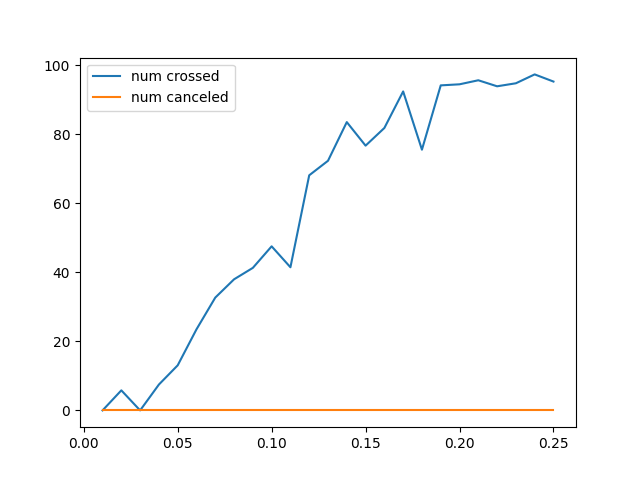
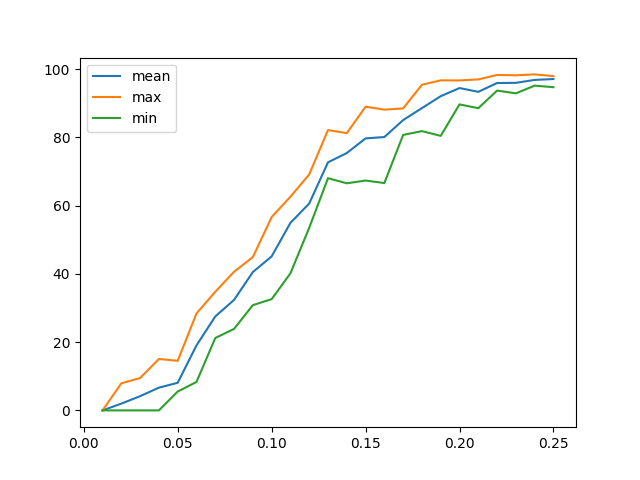
curves max mean min for different lambda

diff --git a/main.py b/main.py
@@ -243,20 +243,48 @@ if(not args.new_scenario):
                         tab_mean_loss = pickle.load(infile)
 
 
-            tab_perc_cycl[0].append(structure.num_cyclists_crossed/num_cyclists*100)
-            tab_perc_cycl[1].append(structure.num_cyclists_canceled/num_cyclists*100)
-            tab_time_diff.append(mean_diff_finish_step)
-            tab_x_values.append(args.poisson_lambda)
+            if(len(tab_x_values) == 0 or tab_x_values[-1] != args.poisson_lambda):
+                tab_perc_cycl[0].append([structure.num_cyclists_crossed/num_cyclists*100])
+                tab_perc_cycl[1].append([structure.num_cyclists_canceled/num_cyclists*100])
+                tab_time_diff.append([mean_diff_finish_step])
+                tab_x_values.append(args.poisson_lambda)
+            else:
+                tab_perc_cycl[0][-1].append(structure.num_cyclists_crossed/num_cyclists*100)
+                tab_perc_cycl[1][-1].append(structure.num_cyclists_canceled/num_cyclists*100)
+                tab_time_diff[-1].append(mean_diff_finish_step)
+
 
             print(tab_perc_cycl[0], tab_perc_cycl[1], tab_time_diff)
 
+            tab_mean_perc_cycl = []
+            tab_max_perc_cycl = []
+            tab_min_perc_cycl = []
+
+            tab_mean_time_diff = []
+            tab_max_time_diff = []
+            tab_min_time_diff = []
+
+            for i in range(len(tab_x_values)):
+                tab_mean_perc_cycl.append(sum(tab_perc_cycl[0][i])/len(tab_perc_cycl[0][i]))
+                tab_max_perc_cycl.append(max(tab_perc_cycl[0][i]))
+                tab_min_perc_cycl.append(min(tab_perc_cycl[0][i]))
+
+                tab_mean_time_diff.append(sum(tab_time_diff[i])/len(tab_time_diff[i]))
+                tab_max_time_diff.append(max(tab_time_diff[i]))
+                tab_min_time_diff.append(min(tab_time_diff[i]))
+
+
             plt.clf()
-            plt.plot(tab_x_values, tab_time_diff)
+            plt.plot(tab_x_values, tab_mean_time_diff, label="mean")
+            plt.plot(tab_x_values, tab_max_time_diff, label="max")
+            plt.plot(tab_x_values, tab_min_time_diff, label="min")
+            plt.legend()
             plt.savefig("images/"+sub_folders+"evolution_time_diff.png")
 
             plt.clf()
-            plt.plot(tab_x_values, tab_perc_cycl[0], label="num crossed")
-            plt.plot(tab_x_values, tab_perc_cycl[1], label="num canceled")
+            plt.plot(tab_x_values, tab_mean_perc_cycl, label="mean")
+            plt.plot(tab_x_values, tab_max_perc_cycl, label="max")
+            plt.plot(tab_x_values, tab_min_perc_cycl, label="min")
             plt.legend()
             plt.savefig("images/"+sub_folders+"evolution_percentage_cycl_using_struct.png")
 
